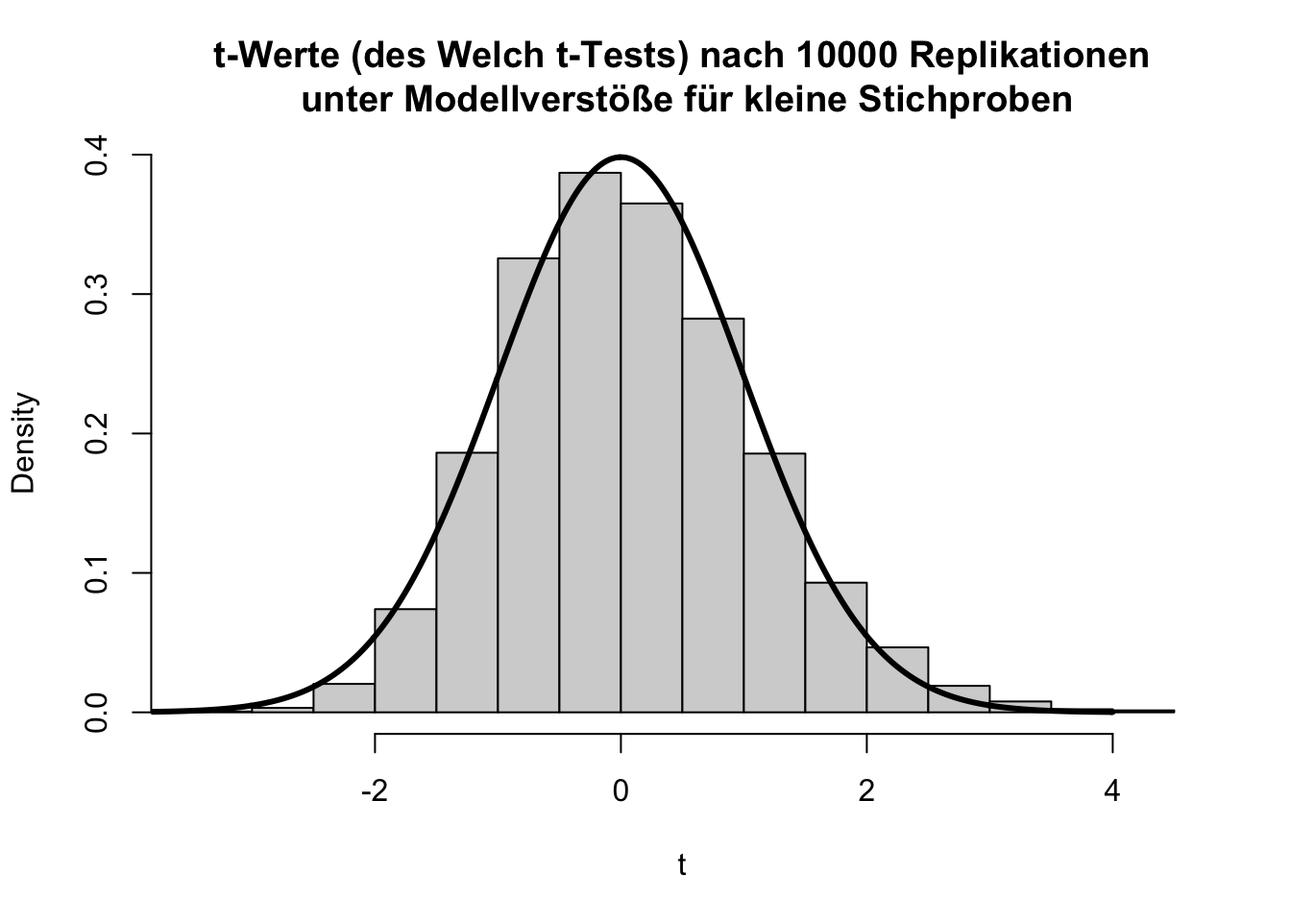
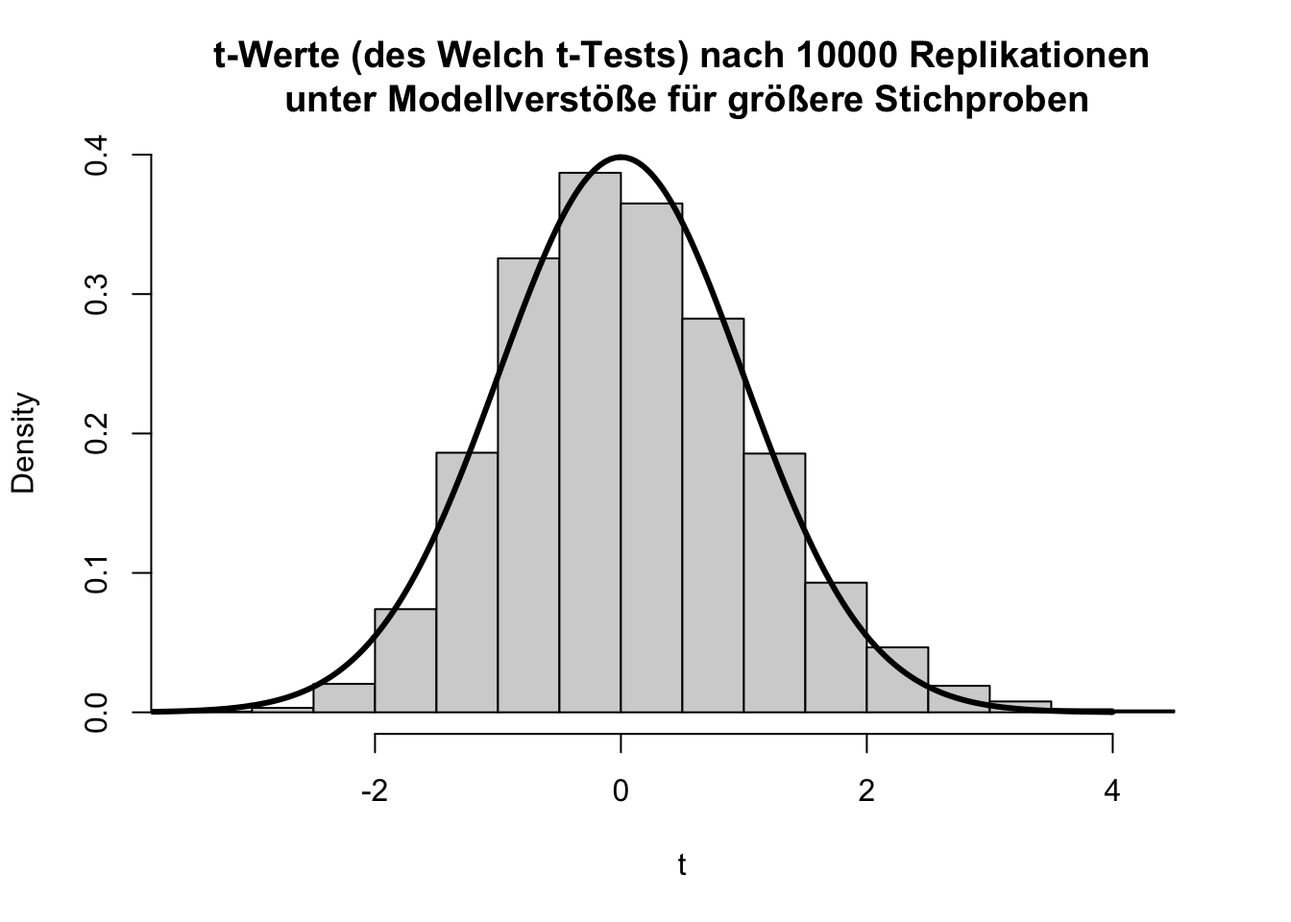
Minor fixed in Sitzung0 of MSc1.

Changed region(s): [[0.2188, 0.0938, 0.8438, 0.125]]

diff --git a/content/post/2020-10-06-einleitung-und-wiederholung.html b/content/post/2020-10-06-einleitung-und-wiederholung.html
@@ -34,7 +34,7 @@ projects: []
 <pre class="r"><code>load(&quot;C:/Users/Musterfrau/Desktop/Schulleistungen.rda&quot;)</code></pre>
 <p>Nun sollte in <code>R</code>-Studio oben rechts in dem Fenster unter der Rubrik “Data” unser Datensatz mit dem Namen “<em>Schulleistungen</em>” erscheinen.</p>
 <p>Bei Dateipfaden ist darauf zu achten, dass bei Linux <svg style="height:0.8em;top:.04em;position:relative;" viewBox="0 0 448 512"><path d="M220.8 123.3c1 .5 1.8 1.7 3 1.7 1.1 0 2.8-.4 2.9-1.5.2-1.4-1.9-2.3-3.2-2.9-1.7-.7-3.9-1-5.5-.1-.4.2-.8.7-.6 1.1.3 1.3 2.3 1.1 3.4 1.7zm-21.9 1.7c1.2 0 2-1.2 3-1.7 1.1-.6 3.1-.4 3.5-1.6.2-.4-.2-.9-.6-1.1-1.6-.9-3.8-.6-5.5.1-1.3.6-3.4 1.5-3.2 2.9.1 1 1.8 1.5 2.8 1.4zM420 403.8c-3.6-4-5.3-11.6-7.2-19.7-1.8-8.1-3.9-16.8-10.5-22.4-1.3-1.1-2.6-2.1-4-2.9-1.3-.8-2.7-1.5-4.1-2 9.2-27.3 5.6-54.5-3.7-79.1-11.4-30.1-31.3-56.4-46.5-74.4-17.1-21.5-33.7-41.9-33.4-72C311.1 85.4 315.7.1 234.8 0 132.4-.2 158 103.4 156.9 135.2c-1.7 23.4-6.4 41.8-22.5 64.7-18.9 22.5-45.5 58.8-58.1 96.7-6 17.9-8.8 36.1-6.2 53.3-6.5 5.8-11.4 14.7-16.6 20.2-4.2 4.3-10.3 5.9-17 8.3s-14 6-18.5 14.5c-2.1 3.9-2.8 8.1-2.8 12.4 0 3.9.6 7.9 1.2 11.8 1.2 8.1 2.5 15.7.8 20.8-5.2 14.4-5.9 24.4-2.2 31.7 3.8 7.3 11.4 10.5 20.1 12.3 17.3 3.6 40.8 2.7 59.3 12.5 19.8 10.4 39.9 14.1 55.9 10.4 11.6-2.6 21.1-9.6 25.9-20.2 12.5-.1 26.3-5.4 48.3-6.6 14.9-1.2 33.6 5.3 55.1 4.1.6 2.3 1.4 4.6 2.5 6.7v.1c8.3 16.7 23.8 24.3 40.3 23 16.6-1.3 34.1-11 48.3-27.9 13.6-16.4 36-23.2 50.9-32.2 7.4-4.5 13.4-10.1 13.9-18.3.4-8.2-4.4-17.3-15.5-29.7zM223.7 87.3c9.8-22.2 34.2-21.8 44-.4 6.5 14.2 3.6 30.9-4.3 40.4-1.6-.8-5.9-2.6-12.6-4.9 1.1-1.2 3.1-2.7 3.9-4.6 4.8-11.8-.2-27-9.1-27.3-7.3-.5-13.9 10.8-11.8 23-4.1-2-9.4-3.5-13-4.4-1-6.9-.3-14.6 2.9-21.8zM183 75.8c10.1 0 20.8 14.2 19.1 33.5-3.5 1-7.1 2.5-10.2 4.6 1.2-8.9-3.3-20.1-9.6-19.6-8.4.7-9.8 21.2-1.8 28.1 1 .8 1.9-.2-5.9 5.5-15.6-14.6-10.5-52.1 8.4-52.1zm-13.6 60.7c6.2-4.6 13.6-10 14.1-10.5 4.7-4.4 13.5-14.2 27.9-14.2 7.1 0 15.6 2.3 25.9 8.9 6.3 4.1 11.3 4.4 22.6 9.3 8.4 3.5 13.7 9.7 10.5 18.2-2.6 7.1-11 14.4-22.7 18.1-11.1 3.6-19.8 16-38.2 14.9-3.9-.2-7-1-9.6-2.1-8-3.5-12.2-10.4-20-15-8.6-4.8-13.2-10.4-14.7-15.3-1.4-4.9 0-9 4.2-12.3zm3.3 334c-2.7 35.1-43.9 34.4-75.3 18-29.9-15.8-68.6-6.5-76.5-21.9-2.4-4.7-2.4-12.7 2.6-26.4v-.2c2.4-7.6.6-16-.6-23.9-1.2-7.8-1.8-15 .9-20 3.5-6.7 8.5-9.1 14.8-11.3 10.3-3.7 11.8-3.4 19.6-9.9 5.5-5.7 9.5-12.9 14.3-18 5.1-5.5 10-8.1 17.7-6.9 8.1 1.2 15.1 6.8 21.9 16l19.6 35.6c9.5 19.9 43.1 48.4 41 68.9zm-1.4-25.9c-4.1-6.6-9.6-13.6-14.4-19.6 7.1 0 14.2-2.2 16.7-8.9 2.3-6.2 0-14.9-7.4-24.9-13.5-18.2-38.3-32.5-38.3-32.5-13.5-8.4-21.1-18.7-24.6-29.9s-3-23.3-.3-35.2c5.2-22.9 18.6-45.2 27.2-59.2 2.3-1.7.8 3.2-8.7 20.8-8.5 16.1-24.4 53.3-2.6 82.4.6-20.7 5.5-41.8 13.8-61.5 12-27.4 37.3-74.9 39.3-112.7 1.1.8 4.6 3.2 6.2 4.1 4.6 2.7 8.1 6.7 12.6 10.3 12.4 10 28.5 9.2 42.4 1.2 6.2-3.5 11.2-7.5 15.9-9 9.9-3.1 17.8-8.6 22.3-15 7.7 30.4 25.7 74.3 37.2 95.7 6.1 11.4 18.3 35.5 23.6 64.6 3.3-.1 7 .4 10.9 1.4 13.8-35.7-11.7-74.2-23.3-84.9-4.7-4.6-4.9-6.6-2.6-6.5 12.6 11.2 29.2 33.7 35.2 59 2.8 11.6 3.3 23.7.4 35.7 16.4 6.8 35.9 17.9 30.7 34.8-2.2-.1-3.2 0-4.2 0 3.2-10.1-3.9-17.6-22.8-26.1-19.6-8.6-36-8.6-38.3 12.5-12.1 4.2-18.3 14.7-21.4 27.3-2.8 11.2-3.6 24.7-4.4 39.9-.5 7.7-3.6 18-6.8 29-32.1 22.9-76.7 32.9-114.3 7.2zm257.4-11.5c-.9 16.8-41.2 19.9-63.2 46.5-13.2 15.7-29.4 24.4-43.6 25.5s-26.5-4.8-33.7-19.3c-4.7-11.1-2.4-23.1 1.1-36.3 3.7-14.2 9.2-28.8 9.9-40.6.8-15.2 1.7-28.5 4.2-38.7 2.6-10.3 6.6-17.2 13.7-21.1.3-.2.7-.3 1-.5.8 13.2 7.3 26.6 18.8 29.5 12.6 3.3 30.7-7.5 38.4-16.3 9-.3 15.7-.9 22.6 5.1 9.9 8.5 7.1 30.3 17.1 41.6 10.6 11.6 14 19.5 13.7 24.6zM173.3 148.7c2 1.9 4.7 4.5 8 7.1 6.6 5.2 15.8 10.6 27.3 10.6 11.6 0 22.5-5.9 31.8-10.8 4.9-2.6 10.9-7 14.8-10.4s5.9-6.3 3.1-6.6-2.6 2.6-6 5.1c-4.4 3.2-9.7 7.4-13.9 9.8-7.4 4.2-19.5 10.2-29.9 10.2s-18.7-4.8-24.9-9.7c-3.1-2.5-5.7-5-7.7-6.9-1.5-1.4-1.9-4.6-4.3-4.9-1.4-.1-1.8 3.7 1.7 6.5z"/></svg> oder Mac OS Rechnern <svg style="height:0.8em;top:.04em;position:relative;" viewBox="0 0 384 512"><path d="M318.7 268.7c-.2-36.7 16.4-64.4 50-84.8-18.8-26.9-47.2-41.7-84.7-44.6-35.5-2.8-74.3 20.7-88.5 20.7-15 0-49.4-19.7-76.4-19.7C63.3 141.2 4 184.8 4 273.5q0 39.3 14.4 81.2c12.8 36.7 59 126.7 107.2 125.2 25.2-.6 43-17.9 75.8-17.9 31.8 0 48.3 17.9 76.4 17.9 48.6-.7 90.4-82.5 102.6-119.3-65.2-30.7-61.7-90-61.7-91.9zm-56.6-164.2c27.3-32.4 24.8-61.9 24-72.5-24.1 1.4-52 16.4-67.9 34.9-17.5 19.8-27.8 44.3-25.6 71.9 26.1 2 49.9-11.4 69.5-34.3z"/></svg> immer Front-Slashes (“/”) zum Anzeigen von Hierarchien zwischen Ordnern verwendet werden, während auf Windows Rechnern <svg style="height:0.8em;top:.04em;position:relative;" viewBox="0 0 448 512"><path d="M0 93.7l183.6-25.3v177.4H0V93.7zm0 324.6l183.6 25.3V268.4H0v149.9zm203.8 28L448 480V268.4H203.8v177.9zm0-380.6v180.1H448V32L203.8 65.7z"/></svg> im System aber bei Dateipfaden mit Back-Slashes gearbeitet wird (“\”). <code>R</code> nutzt auf Windows Rechnern <svg style="height:0.8em;top:.04em;position:relative;" viewBox="0 0 448 512"><path d="M0 93.7l183.6-25.3v177.4H0V93.7zm0 324.6l183.6 25.3V268.4H0v149.9zm203.8 28L448 480V268.4H203.8v177.9zm0-380.6v180.1H448V32L203.8 65.7z"/></svg> ebenfalls Front-Slashes (“/”). Das bedeutet, dass, wenn wir auf Windows Rechnern <svg style="height:0.8em;top:.04em;position:relative;" viewBox="0 0 448 512"><path d="M0 93.7l183.6-25.3v177.4H0V93.7zm0 324.6l183.6 25.3V268.4H0v149.9zm203.8 28L448 480V268.4H203.8v177.9zm0-380.6v180.1H448V32L203.8 65.7z"/></svg> den Dateipfad aus dem Explorer kopieren, wir die Slashes “umdrehen” müssen.</p>
-<p>Genauso sind Sie in der Lage den Datensatz direkt aus dem Internet zu laden. Hierzu brauchen Sie nur die URL und müssen <code>R</code> sagen, dass es sich bei dieser um eine URL handelt, indem Sie die Funktion <code>url</code> auf den Link anwenden. Der funktioniernde Befehl sieht so aus (wobei die URL in Anführungszeichen geschrieben werden muss):</p>
+<p>Genauso sind Sie in der Lage, den Datensatz direkt aus dem Internet zu laden. Hierzu brauchen Sie nur die URL und müssen <code>R</code> sagen, dass es sich bei dieser um eine URL handelt, indem Sie die Funktion <code>url</code> auf den Link anwenden. Der funktioniernde Befehl sieht so aus (wobei die URL in Anführungszeichen geschrieben werden muss):</p>
 <pre class="r"><code>load(url(&quot;https://pandar.netlify.app/post/Schulleistungen.rda&quot;))</code></pre>
 </div>
 <div id="ein-überblick-über-die-daten" class="section level3">
@@ -68,7 +68,7 @@ str(Schulleistungen)</code></pre>
 ##  $ IQ     : num  81.8 106.8 99.1 111.9 116.1 ...
 ##  $ reading: num  450 545 331 532 604 ...
 ##  $ math   : num  452 590 509 560 659 ...</code></pre>
-<p>Wir entnehmen dem Output, dass die Variablen im Datensatz <code>female</code>, <code>IQ</code>, <code>reading</code> und <code>math</code> heißen, dass es insgesamt <span class="math inline">\(n = 100\)</span> Schulkinder zu 4 Merkmalen befragt/untersucht wurden und dass alle diese Variablen “<em>numerisch</em>”, also als Zahlen, vorliegen. Eine einzelne Variable eines Datensatzes (vom Typ <code>data.frame</code>) können wir ansprechen, indem wir hinter den Datensatz <code>$</code> schreiben und anschließend den Variablennamen. Zugriff auf den <code>IQ</code> der Kinder erhalten wir mit:</p>
+<p>Wir entnehmen dem Output, dass die Variablen im Datensatz <code>female</code>, <code>IQ</code>, <code>reading</code> und <code>math</code> heißen, dass insgesamt <span class="math inline">\(n = 100\)</span> Schulkinder zu 4 Merkmalen befragt/untersucht wurden und dass alle diese Variablen “<em>numerisch</em>”, also als Zahlen, vorliegen. Eine einzelne Variable eines Datensatzes (vom Typ <code>data.frame</code>) können wir ansprechen, indem wir hinter den Datensatz <code>$</code> schreiben und anschließend den Variablennamen. Zugriff auf den <code>IQ</code> der Kinder erhalten wir mit:</p>
 <pre class="r"><code>Schulleistungen$IQ</code></pre>
 <pre><code>##   [1]  81.77950 106.75898  99.14033 111.91499 116.12682 106.14127  85.44854
 ##   [8]  93.24323 135.19738  89.90152  92.72073 115.90123 114.54088  83.28294
@@ -85,7 +85,7 @@ str(Schulleistungen)</code></pre>
 ##  [85]  76.56824  97.56684 104.28662 106.08550 120.97759  82.65717 108.41181
 ##  [92] 103.38963 100.59534 122.79791  97.91853  92.96729  77.51862 105.01989
 ##  [99]  54.05485 106.12641</code></pre>
-<p><em><strong>Tipp:</strong> In <code>R</code>-Studio können Sie sich Ihren Umgang mit der Software in vielen Dingen vereinfachen, indem Sie die automatische Vervollständigung der Software nutzen. Dies tun Sie, indem Sie bspw. <code>Schulleistungen$</code> tippen und dann den Tabulator [oder “Strg” + “Leertaste” auf Windows <svg style="height:0.8em;top:.04em;position:relative;" viewBox="0 0 448 512"><path d="M0 93.7l183.6-25.3v177.4H0V93.7zm0 324.6l183.6 25.3V268.4H0v149.9zm203.8 28L448 480V268.4H203.8v177.9zm0-380.6v180.1H448V32L203.8 65.7z"/></svg> oder Linux Rechner <svg style="height:0.8em;top:.04em;position:relative;" viewBox="0 0 448 512"><path d="M220.8 123.3c1 .5 1.8 1.7 3 1.7 1.1 0 2.8-.4 2.9-1.5.2-1.4-1.9-2.3-3.2-2.9-1.7-.7-3.9-1-5.5-.1-.4.2-.8.7-.6 1.1.3 1.3 2.3 1.1 3.4 1.7zm-21.9 1.7c1.2 0 2-1.2 3-1.7 1.1-.6 3.1-.4 3.5-1.6.2-.4-.2-.9-.6-1.1-1.6-.9-3.8-.6-5.5.1-1.3.6-3.4 1.5-3.2 2.9.1 1 1.8 1.5 2.8 1.4zM420 403.8c-3.6-4-5.3-11.6-7.2-19.7-1.8-8.1-3.9-16.8-10.5-22.4-1.3-1.1-2.6-2.1-4-2.9-1.3-.8-2.7-1.5-4.1-2 9.2-27.3 5.6-54.5-3.7-79.1-11.4-30.1-31.3-56.4-46.5-74.4-17.1-21.5-33.7-41.9-33.4-72C311.1 85.4 315.7.1 234.8 0 132.4-.2 158 103.4 156.9 135.2c-1.7 23.4-6.4 41.8-22.5 64.7-18.9 22.5-45.5 58.8-58.1 96.7-6 17.9-8.8 36.1-6.2 53.3-6.5 5.8-11.4 14.7-16.6 20.2-4.2 4.3-10.3 5.9-17 8.3s-14 6-18.5 14.5c-2.1 3.9-2.8 8.1-2.8 12.4 0 3.9.6 7.9 1.2 11.8 1.2 8.1 2.5 15.7.8 20.8-5.2 14.4-5.9 24.4-2.2 31.7 3.8 7.3 11.4 10.5 20.1 12.3 17.3 3.6 40.8 2.7 59.3 12.5 19.8 10.4 39.9 14.1 55.9 10.4 11.6-2.6 21.1-9.6 25.9-20.2 12.5-.1 26.3-5.4 48.3-6.6 14.9-1.2 33.6 5.3 55.1 4.1.6 2.3 1.4 4.6 2.5 6.7v.1c8.3 16.7 23.8 24.3 40.3 23 16.6-1.3 34.1-11 48.3-27.9 13.6-16.4 36-23.2 50.9-32.2 7.4-4.5 13.4-10.1 13.9-18.3.4-8.2-4.4-17.3-15.5-29.7zM223.7 87.3c9.8-22.2 34.2-21.8 44-.4 6.5 14.2 3.6 30.9-4.3 40.4-1.6-.8-5.9-2.6-12.6-4.9 1.1-1.2 3.1-2.7 3.9-4.6 4.8-11.8-.2-27-9.1-27.3-7.3-.5-13.9 10.8-11.8 23-4.1-2-9.4-3.5-13-4.4-1-6.9-.3-14.6 2.9-21.8zM183 75.8c10.1 0 20.8 14.2 19.1 33.5-3.5 1-7.1 2.5-10.2 4.6 1.2-8.9-3.3-20.1-9.6-19.6-8.4.7-9.8 21.2-1.8 28.1 1 .8 1.9-.2-5.9 5.5-15.6-14.6-10.5-52.1 8.4-52.1zm-13.6 60.7c6.2-4.6 13.6-10 14.1-10.5 4.7-4.4 13.5-14.2 27.9-14.2 7.1 0 15.6 2.3 25.9 8.9 6.3 4.1 11.3 4.4 22.6 9.3 8.4 3.5 13.7 9.7 10.5 18.2-2.6 7.1-11 14.4-22.7 18.1-11.1 3.6-19.8 16-38.2 14.9-3.9-.2-7-1-9.6-2.1-8-3.5-12.2-10.4-20-15-8.6-4.8-13.2-10.4-14.7-15.3-1.4-4.9 0-9 4.2-12.3zm3.3 334c-2.7 35.1-43.9 34.4-75.3 18-29.9-15.8-68.6-6.5-76.5-21.9-2.4-4.7-2.4-12.7 2.6-26.4v-.2c2.4-7.6.6-16-.6-23.9-1.2-7.8-1.8-15 .9-20 3.5-6.7 8.5-9.1 14.8-11.3 10.3-3.7 11.8-3.4 19.6-9.9 5.5-5.7 9.5-12.9 14.3-18 5.1-5.5 10-8.1 17.7-6.9 8.1 1.2 15.1 6.8 21.9 16l19.6 35.6c9.5 19.9 43.1 48.4 41 68.9zm-1.4-25.9c-4.1-6.6-9.6-13.6-14.4-19.6 7.1 0 14.2-2.2 16.7-8.9 2.3-6.2 0-14.9-7.4-24.9-13.5-18.2-38.3-32.5-38.3-32.5-13.5-8.4-21.1-18.7-24.6-29.9s-3-23.3-.3-35.2c5.2-22.9 18.6-45.2 27.2-59.2 2.3-1.7.8 3.2-8.7 20.8-8.5 16.1-24.4 53.3-2.6 82.4.6-20.7 5.5-41.8 13.8-61.5 12-27.4 37.3-74.9 39.3-112.7 1.1.8 4.6 3.2 6.2 4.1 4.6 2.7 8.1 6.7 12.6 10.3 12.4 10 28.5 9.2 42.4 1.2 6.2-3.5 11.2-7.5 15.9-9 9.9-3.1 17.8-8.6 22.3-15 7.7 30.4 25.7 74.3 37.2 95.7 6.1 11.4 18.3 35.5 23.6 64.6 3.3-.1 7 .4 10.9 1.4 13.8-35.7-11.7-74.2-23.3-84.9-4.7-4.6-4.9-6.6-2.6-6.5 12.6 11.2 29.2 33.7 35.2 59 2.8 11.6 3.3 23.7.4 35.7 16.4 6.8 35.9 17.9 30.7 34.8-2.2-.1-3.2 0-4.2 0 3.2-10.1-3.9-17.6-22.8-26.1-19.6-8.6-36-8.6-38.3 12.5-12.1 4.2-18.3 14.7-21.4 27.3-2.8 11.2-3.6 24.7-4.4 39.9-.5 7.7-3.6 18-6.8 29-32.1 22.9-76.7 32.9-114.3 7.2zm257.4-11.5c-.9 16.8-41.2 19.9-63.2 46.5-13.2 15.7-29.4 24.4-43.6 25.5s-26.5-4.8-33.7-19.3c-4.7-11.1-2.4-23.1 1.1-36.3 3.7-14.2 9.2-28.8 9.9-40.6.8-15.2 1.7-28.5 4.2-38.7 2.6-10.3 6.6-17.2 13.7-21.1.3-.2.7-.3 1-.5.8 13.2 7.3 26.6 18.8 29.5 12.6 3.3 30.7-7.5 38.4-16.3 9-.3 15.7-.9 22.6 5.1 9.9 8.5 7.1 30.3 17.1 41.6 10.6 11.6 14 19.5 13.7 24.6zM173.3 148.7c2 1.9 4.7 4.5 8 7.1 6.6 5.2 15.8 10.6 27.3 10.6 11.6 0 22.5-5.9 31.8-10.8 4.9-2.6 10.9-7 14.8-10.4s5.9-6.3 3.1-6.6-2.6 2.6-6 5.1c-4.4 3.2-9.7 7.4-13.9 9.8-7.4 4.2-19.5 10.2-29.9 10.2s-18.7-4.8-24.9-9.7c-3.1-2.5-5.7-5-7.7-6.9-1.5-1.4-1.9-4.6-4.3-4.9-1.4-.1-1.8 3.7 1.7 6.5z"/></svg> oder “Control” + “Leertaste” auf Mac OS Rechnern <svg style="height:0.8em;top:.04em;position:relative;" viewBox="0 0 384 512"><path d="M318.7 268.7c-.2-36.7 16.4-64.4 50-84.8-18.8-26.9-47.2-41.7-84.7-44.6-35.5-2.8-74.3 20.7-88.5 20.7-15 0-49.4-19.7-76.4-19.7C63.3 141.2 4 184.8 4 273.5q0 39.3 14.4 81.2c12.8 36.7 59 126.7 107.2 125.2 25.2-.6 43-17.9 75.8-17.9 31.8 0 48.3 17.9 76.4 17.9 48.6-.7 90.4-82.5 102.6-119.3-65.2-30.7-61.7-90-61.7-91.9zm-56.6-164.2c27.3-32.4 24.8-61.9 24-72.5-24.1 1.4-52 16.4-67.9 34.9-17.5 19.8-27.8 44.3-25.6 71.9 26.1 2 49.9-11.4 69.5-34.3z"/></svg>] auf Ihrer Tastatur drücken. Ihnen werden dann Vorschläge für mögliche Argumente aufgezeigt. Das gleiche funktioniert auch in Funktionen. Hier müssen Sie zunächst den Funktionnamen schreiben und die Klammern öffnen. Mit dem Tabulator erhalten Sie anschließend Vorschläge für mögliche Argumente, die Sie der Funktion übergeben können. Schauen Sie sich dies doch einmal an! Dies funktioniert übrigens auch für das Vervollständigen von Dateipfaden. Hierbei muss allerdings darauf geachtet werden, dass diese in Anführungsstrichen geschrieben werden und Sie müssen beachten, wo ihr aktuelles Working-Directory liegt. Sie können allerdings auch den vollständigen Pfad eingeben, indem Sie auf Windows PCs <svg style="height:0.8em;top:.04em;position:relative;" viewBox="0 0 448 512"><path d="M0 93.7l183.6-25.3v177.4H0V93.7zm0 324.6l183.6 25.3V268.4H0v149.9zm203.8 28L448 480V268.4H203.8v177.9zm0-380.6v180.1H448V32L203.8 65.7z"/></svg> mit “C:/Users/” und auf Mac OS Rechnern <svg style="height:0.8em;top:.04em;position:relative;" viewBox="0 0 384 512"><path d="M318.7 268.7c-.2-36.7 16.4-64.4 50-84.8-18.8-26.9-47.2-41.7-84.7-44.6-35.5-2.8-74.3 20.7-88.5 20.7-15 0-49.4-19.7-76.4-19.7C63.3 141.2 4 184.8 4 273.5q0 39.3 14.4 81.2c12.8 36.7 59 126.7 107.2 125.2 25.2-.6 43-17.9 75.8-17.9 31.8 0 48.3 17.9 76.4 17.9 48.6-.7 90.4-82.5 102.6-119.3-65.2-30.7-61.7-90-61.7-91.9zm-56.6-164.2c27.3-32.4 24.8-61.9 24-72.5-24.1 1.4-52 16.4-67.9 34.9-17.5 19.8-27.8 44.3-25.6 71.9 26.1 2 49.9-11.4 69.5-34.3z"/></svg> mit “/Users/” beginnen und dann den Tabulator drücken und den jeweilig richtigen Ordner auswählen, bis Sie an Ihrer Zieldatei angekommen sind!</em></p>
+<p><em><strong>Tipp:</strong> In <code>R</code>-Studio können Sie sich Ihren Umgang mit der Software in vielen Dingen vereinfachen, indem Sie die automatische Vervollständigung der Software nutzen. Dies tun Sie, indem Sie bspw. <code>Schulleistungen$</code> tippen und dann den Tabulator [oder “Strg” + “Leertaste” auf Windows <svg style="height:0.8em;top:.04em;position:relative;" viewBox="0 0 448 512"><path d="M0 93.7l183.6-25.3v177.4H0V93.7zm0 324.6l183.6 25.3V268.4H0v149.9zm203.8 28L448 480V268.4H203.8v177.9zm0-380.6v180.1H448V32L203.8 65.7z"/></svg> oder Linux Rechner <svg style="height:0.8em;top:.04em;position:relative;" viewBox="0 0 448 512"><path d="M220.8 123.3c1 .5 1.8 1.7 3 1.7 1.1 0 2.8-.4 2.9-1.5.2-1.4-1.9-2.3-3.2-2.9-1.7-.7-3.9-1-5.5-.1-.4.2-.8.7-.6 1.1.3 1.3 2.3 1.1 3.4 1.7zm-21.9 1.7c1.2 0 2-1.2 3-1.7 1.1-.6 3.1-.4 3.5-1.6.2-.4-.2-.9-.6-1.1-1.6-.9-3.8-.6-5.5.1-1.3.6-3.4 1.5-3.2 2.9.1 1 1.8 1.5 2.8 1.4zM420 403.8c-3.6-4-5.3-11.6-7.2-19.7-1.8-8.1-3.9-16.8-10.5-22.4-1.3-1.1-2.6-2.1-4-2.9-1.3-.8-2.7-1.5-4.1-2 9.2-27.3 5.6-54.5-3.7-79.1-11.4-30.1-31.3-56.4-46.5-74.4-17.1-21.5-33.7-41.9-33.4-72C311.1 85.4 315.7.1 234.8 0 132.4-.2 158 103.4 156.9 135.2c-1.7 23.4-6.4 41.8-22.5 64.7-18.9 22.5-45.5 58.8-58.1 96.7-6 17.9-8.8 36.1-6.2 53.3-6.5 5.8-11.4 14.7-16.6 20.2-4.2 4.3-10.3 5.9-17 8.3s-14 6-18.5 14.5c-2.1 3.9-2.8 8.1-2.8 12.4 0 3.9.6 7.9 1.2 11.8 1.2 8.1 2.5 15.7.8 20.8-5.2 14.4-5.9 24.4-2.2 31.7 3.8 7.3 11.4 10.5 20.1 12.3 17.3 3.6 40.8 2.7 59.3 12.5 19.8 10.4 39.9 14.1 55.9 10.4 11.6-2.6 21.1-9.6 25.9-20.2 12.5-.1 26.3-5.4 48.3-6.6 14.9-1.2 33.6 5.3 55.1 4.1.6 2.3 1.4 4.6 2.5 6.7v.1c8.3 16.7 23.8 24.3 40.3 23 16.6-1.3 34.1-11 48.3-27.9 13.6-16.4 36-23.2 50.9-32.2 7.4-4.5 13.4-10.1 13.9-18.3.4-8.2-4.4-17.3-15.5-29.7zM223.7 87.3c9.8-22.2 34.2-21.8 44-.4 6.5 14.2 3.6 30.9-4.3 40.4-1.6-.8-5.9-2.6-12.6-4.9 1.1-1.2 3.1-2.7 3.9-4.6 4.8-11.8-.2-27-9.1-27.3-7.3-.5-13.9 10.8-11.8 23-4.1-2-9.4-3.5-13-4.4-1-6.9-.3-14.6 2.9-21.8zM183 75.8c10.1 0 20.8 14.2 19.1 33.5-3.5 1-7.1 2.5-10.2 4.6 1.2-8.9-3.3-20.1-9.6-19.6-8.4.7-9.8 21.2-1.8 28.1 1 .8 1.9-.2-5.9 5.5-15.6-14.6-10.5-52.1 8.4-52.1zm-13.6 60.7c6.2-4.6 13.6-10 14.1-10.5 4.7-4.4 13.5-14.2 27.9-14.2 7.1 0 15.6 2.3 25.9 8.9 6.3 4.1 11.3 4.4 22.6 9.3 8.4 3.5 13.7 9.7 10.5 18.2-2.6 7.1-11 14.4-22.7 18.1-11.1 3.6-19.8 16-38.2 14.9-3.9-.2-7-1-9.6-2.1-8-3.5-12.2-10.4-20-15-8.6-4.8-13.2-10.4-14.7-15.3-1.4-4.9 0-9 4.2-12.3zm3.3 334c-2.7 35.1-43.9 34.4-75.3 18-29.9-15.8-68.6-6.5-76.5-21.9-2.4-4.7-2.4-12.7 2.6-26.4v-.2c2.4-7.6.6-16-.6-23.9-1.2-7.8-1.8-15 .9-20 3.5-6.7 8.5-9.1 14.8-11.3 10.3-3.7 11.8-3.4 19.6-9.9 5.5-5.7 9.5-12.9 14.3-18 5.1-5.5 10-8.1 17.7-6.9 8.1 1.2 15.1 6.8 21.9 16l19.6 35.6c9.5 19.9 43.1 48.4 41 68.9zm-1.4-25.9c-4.1-6.6-9.6-13.6-14.4-19.6 7.1 0 14.2-2.2 16.7-8.9 2.3-6.2 0-14.9-7.4-24.9-13.5-18.2-38.3-32.5-38.3-32.5-13.5-8.4-21.1-18.7-24.6-29.9s-3-23.3-.3-35.2c5.2-22.9 18.6-45.2 27.2-59.2 2.3-1.7.8 3.2-8.7 20.8-8.5 16.1-24.4 53.3-2.6 82.4.6-20.7 5.5-41.8 13.8-61.5 12-27.4 37.3-74.9 39.3-112.7 1.1.8 4.6 3.2 6.2 4.1 4.6 2.7 8.1 6.7 12.6 10.3 12.4 10 28.5 9.2 42.4 1.2 6.2-3.5 11.2-7.5 15.9-9 9.9-3.1 17.8-8.6 22.3-15 7.7 30.4 25.7 74.3 37.2 95.7 6.1 11.4 18.3 35.5 23.6 64.6 3.3-.1 7 .4 10.9 1.4 13.8-35.7-11.7-74.2-23.3-84.9-4.7-4.6-4.9-6.6-2.6-6.5 12.6 11.2 29.2 33.7 35.2 59 2.8 11.6 3.3 23.7.4 35.7 16.4 6.8 35.9 17.9 30.7 34.8-2.2-.1-3.2 0-4.2 0 3.2-10.1-3.9-17.6-22.8-26.1-19.6-8.6-36-8.6-38.3 12.5-12.1 4.2-18.3 14.7-21.4 27.3-2.8 11.2-3.6 24.7-4.4 39.9-.5 7.7-3.6 18-6.8 29-32.1 22.9-76.7 32.9-114.3 7.2zm257.4-11.5c-.9 16.8-41.2 19.9-63.2 46.5-13.2 15.7-29.4 24.4-43.6 25.5s-26.5-4.8-33.7-19.3c-4.7-11.1-2.4-23.1 1.1-36.3 3.7-14.2 9.2-28.8 9.9-40.6.8-15.2 1.7-28.5 4.2-38.7 2.6-10.3 6.6-17.2 13.7-21.1.3-.2.7-.3 1-.5.8 13.2 7.3 26.6 18.8 29.5 12.6 3.3 30.7-7.5 38.4-16.3 9-.3 15.7-.9 22.6 5.1 9.9 8.5 7.1 30.3 17.1 41.6 10.6 11.6 14 19.5 13.7 24.6zM173.3 148.7c2 1.9 4.7 4.5 8 7.1 6.6 5.2 15.8 10.6 27.3 10.6 11.6 0 22.5-5.9 31.8-10.8 4.9-2.6 10.9-7 14.8-10.4s5.9-6.3 3.1-6.6-2.6 2.6-6 5.1c-4.4 3.2-9.7 7.4-13.9 9.8-7.4 4.2-19.5 10.2-29.9 10.2s-18.7-4.8-24.9-9.7c-3.1-2.5-5.7-5-7.7-6.9-1.5-1.4-1.9-4.6-4.3-4.9-1.4-.1-1.8 3.7 1.7 6.5z"/></svg> oder “Control” + “Leertaste” auf Mac OS Rechnern <svg style="height:0.8em;top:.04em;position:relative;" viewBox="0 0 384 512"><path d="M318.7 268.7c-.2-36.7 16.4-64.4 50-84.8-18.8-26.9-47.2-41.7-84.7-44.6-35.5-2.8-74.3 20.7-88.5 20.7-15 0-49.4-19.7-76.4-19.7C63.3 141.2 4 184.8 4 273.5q0 39.3 14.4 81.2c12.8 36.7 59 126.7 107.2 125.2 25.2-.6 43-17.9 75.8-17.9 31.8 0 48.3 17.9 76.4 17.9 48.6-.7 90.4-82.5 102.6-119.3-65.2-30.7-61.7-90-61.7-91.9zm-56.6-164.2c27.3-32.4 24.8-61.9 24-72.5-24.1 1.4-52 16.4-67.9 34.9-17.5 19.8-27.8 44.3-25.6 71.9 26.1 2 49.9-11.4 69.5-34.3z"/></svg>] auf Ihrer Tastatur drücken. Ihnen werden dann Vorschläge für mögliche Argumente aufgezeigt. Das gleiche funktioniert auch in Funktionen. Hier müssen Sie zunächst den Funktionsnamen schreiben und die Klammern öffnen. Mit dem Tabulator erhalten Sie anschließend Vorschläge für mögliche Argumente, die Sie der Funktion übergeben können. Schauen Sie sich dies doch einmal an! Dies funktioniert übrigens auch für das Vervollständigen von Dateipfaden. Hierbei muss allerdings darauf geachtet werden, dass diese in Anführungsstrichen geschrieben werden und Sie müssen beachten, wo ihr aktuelles Working-Directory liegt. Sie können allerdings auch den vollständigen Pfad eingeben, indem Sie auf Windows PCs <svg style="height:0.8em;top:.04em;position:relative;" viewBox="0 0 448 512"><path d="M0 93.7l183.6-25.3v177.4H0V93.7zm0 324.6l183.6 25.3V268.4H0v149.9zm203.8 28L448 480V268.4H203.8v177.9zm0-380.6v180.1H448V32L203.8 65.7z"/></svg> mit “C:/Users/” und auf Mac OS Rechnern <svg style="height:0.8em;top:.04em;position:relative;" viewBox="0 0 384 512"><path d="M318.7 268.7c-.2-36.7 16.4-64.4 50-84.8-18.8-26.9-47.2-41.7-84.7-44.6-35.5-2.8-74.3 20.7-88.5 20.7-15 0-49.4-19.7-76.4-19.7C63.3 141.2 4 184.8 4 273.5q0 39.3 14.4 81.2c12.8 36.7 59 126.7 107.2 125.2 25.2-.6 43-17.9 75.8-17.9 31.8 0 48.3 17.9 76.4 17.9 48.6-.7 90.4-82.5 102.6-119.3-65.2-30.7-61.7-90-61.7-91.9zm-56.6-164.2c27.3-32.4 24.8-61.9 24-72.5-24.1 1.4-52 16.4-67.9 34.9-17.5 19.8-27.8 44.3-25.6 71.9 26.1 2 49.9-11.4 69.5-34.3z"/></svg> mit “/Users/” beginnen und dann den Tabulator drücken und den jeweilig richtigen Ordner auswählen, bis Sie an Ihrer Zieldatei angekommen sind!</em></p>
 </div>
 <div id="einfache-deskriptivstatistiken" class="section level3">
 <h3>Einfache Deskriptivstatistiken</h3>
@@ -133,7 +133,7 @@ hist(X)</code></pre>
 <pre><code>## [1] -0.002997332</code></pre>
 <pre class="r"><code>sd(X)</code></pre>
 <pre><code>## [1] 0.9956916</code></pre>
-<p>Natürlich liegt der geschätzte Mittelwert und die Standardabweichung nicht genau auf den wahren Werten, was am Sampling-Error liegt. Gehen wir nun her und simulieren noch eine zweite Stichprobe standardnormalverteilter Zufallsvariablen, so können wir diese beiden Stichproben mit Hilfe des <span class="math inline">\(t\)</span>-Tests vergleichen. Die Funktion in <code>R</code> hierzu heißt <code>t.test</code> (wir müssen hier <code>var.equal = T</code> wählen, da sonst eine Näherung verwendet wird, die unterschiedliche Varianzen ausgleichen soll, nämlich Welch’s Two Sample <span class="math inline">\(t\)</span>-Test):</p>
+<p>Natürlich liegen der geschätzte Mittelwert und die Standardabweichung nicht genau auf den wahren Werten, was am Sampling-Error liegt. Gehen wir nun her und simulieren noch eine zweite Stichprobe standardnormalverteilter Zufallsvariablen, so können wir diese beiden Stichproben mit Hilfe des <span class="math inline">\(t\)</span>-Tests vergleichen. Die Funktion in <code>R</code> hierzu heißt <code>t.test</code> (wir müssen hier <code>var.equal = T</code> wählen, da sonst eine Näherung verwendet wird, die unterschiedliche Varianzen ausgleichen soll, nämlich Welch’s Two Sample <span class="math inline">\(t\)</span>-Test):</p>
 <pre class="r"><code>Y &lt;- rnorm(n = 1000, mean = 0, sd = 1)
 t.test(X, Y, var.equal = T)</code></pre>
 <pre><code>## 
@@ -153,7 +153,7 @@ t.test(X, Y, var.equal = T)</code></pre>
 <p>zeigt an, dass es sich um einen Zweistichproben <span class="math inline">\(t\)</span>-Test handelt.</p>
 <pre><code>##  data:  X and Y
 ##  t = -1.4456, df = 1998, p-value = 0.1484</code></pre>
-<p>zeigt uns die Datengrundlage (<code>X</code> und <code>Y</code>), den <span class="math inline">\(t\)</span>-Wert, die <span class="math inline">\(df\)</span> und den <span class="math inline">\(p\)</span>-Wert. Wir erkennen, dass die Mittelwertsdifferenz <span class="math inline">\(d\)</span>= -0.065 mit zugehörigen <span class="math inline">\(t\)</span>-Wert t(1998)=-1.4456 und <span class="math inline">\(p\)</span>-Wert p=0.1484, somit ist dieser Mittelwertsvergleich auf dem 5% Niveau nicht signifikant (<span class="math inline">\(p\)</span>&gt;.05).</p>
+<p>zeigt uns die Datengrundlage (<code>X</code> und <code>Y</code>), den <span class="math inline">\(t\)</span>-Wert, die <span class="math inline">\(df\)</span> und den <span class="math inline">\(p\)</span>-Wert. Wir erkennen, dass die Mittelwertsdifferenz bei <span class="math inline">\(d\)</span>= -0.065 liegt, mit zugehörigen <span class="math inline">\(t\)</span>-Wert t(1998)=-1.4456 und <span class="math inline">\(p\)</span>-Wert p=0.1484, somit ist dieser Mittelwertsvergleich auf dem 5% Niveau nicht signifikant (<span class="math inline">\(p\)</span>&gt;.05).</p>
 <pre><code>##  alternative hypothesis: true difference in means is not equal to 0
 ##  95 percent confidence interval:
 ##   -0.15317201  0.02317988
@@ -171,7 +171,7 @@ names(ttest)    # alle möglichen Argumente, die wir diesem Objekt entlocken kö
 ## -1.4456</code></pre>
 <pre class="r"><code>ttest$p.value   # zugehöriger p-Wert</code></pre>
 <pre><code>## [1] 0.1484462</code></pre>
-<p>Da die Null-Hypothese nicht verworfen wird, bedeutet dies, dass wir weiterhin annehmen, dass die Mittelwertsdifferenz in der Population tatsächlich 0 ist. Die in der Stichprobe ist offensichtlich nicht 0, aber sie liegt so nah an der 0, dass diese Abweichung wahrscheinlich durch Zufall passiert ist und sich nicht auf die Population verallgemeinern lässt (siehe als Wiederholung <a href="https://hds.hebis.de/ubffm/Record/HEB366849158">Eid, et al., 2017</a>, Kapitel 11.1 für den <span class="math inline">\(t\)</span>-Test und Kapitel 8 für Inferenzstatistikgrundlagen und Hypothesentests, bzw. <a href="https://hds.hebis.de/ubffm/Record/HEB369761391">Agresti, &amp; Finlay, 2013,</a>, Kapitel 6).</p>
+<p>Da die Null-Hypothese nicht verworfen wird, bedeutet dies, dass wir weiterhin annehmen, dass die Mittelwertsdifferenz in der Population tatsächlich 0 ist. Die in der Stichprobe ist offensichtlich nicht 0, aber sie liegt so nah an der 0, dass diese Abweichung wahrscheinlich durch Zufall passiert ist und sich nicht auf die Population verallgemeinern lässt (siehe als Wiederholung <a href="https://hds.hebis.de/ubffm/Record/HEB366849158">Eid, et al., 2017</a>, Kapitel 11.1 für den <span class="math inline">\(t\)</span>-Test und Kapitel 8 für Inferenzstatistikgrundlagen und Hypothesentests, bzw. <a href="https://hds.hebis.de/ubffm/Record/HEB369761391">Agresti, &amp; Finlay, 2013</a>, Kapitel 6).</p>
 </div>
 <div id="verteilung-unter-h_0" class="section level3">
 <h3>Verteilung unter <span class="math inline">\(H_0\)</span></h3>
@@ -185,7 +185,7 @@ names(ttest)    # alle möglichen Argumente, die wir diesem Objekt entlocken kö
 <p><img src="/post/2020-10-06-einleitung-und-wiederholung_files/figure-html/unnamed-chunk-18-1.png" width="672" style="display: block; margin: auto;" /><img src="/post/2020-10-06-einleitung-und-wiederholung_files/figure-html/unnamed-chunk-18-2.png" width="672" style="display: block; margin: auto;" /></p>
 <p>Wir sehen sehr deutlich, dass die Teststatstitk <span class="math inline">\(T\)</span> deutlich nach rechts verschoben ist und nicht mehr zur theoretischen Verteilung unter der <span class="math inline">\(H_0\)</span>-Hypothese passt. Auch die <span class="math inline">\(p\)</span>-Werte sind alles andere als gleichverteilt. Folglich sprechen extreme <span class="math inline">\(t\)</span>-Werte gegen die Null-Hypothese, weswegen wir diese verwerfen, wenn wir einen extremen Wert beobachten. Hier liegen 60.99% der <span class="math inline">\(p\)</span>-Werte unterhalb von <span class="math inline">\(0.05\)</span>. Dies wird auch als <strong>Power</strong> (siehe im Kapitel 8 in <a href="https://hds.hebis.de/ubffm/Record/HEB366849158">Eid, et al., 2017</a> Wiederholungen der Begriffe Power und <span class="math inline">\(\alpha\)</span>-Fehler) bezeichnet, somit hat der <span class="math inline">\(t\)</span>-Test für eine Mittelwertsdifferenz von <span class="math inline">\(d\)</span>=.1 und eine Stichprobengröße von insgesamt n = 2000 eine Power von 60.99%, was bedeutet, dass in diesem Fall die <span class="math inline">\(H_0\)</span> richtigerweise verworfen wird. Schauen wir uns die Power der <span class="math inline">\(t\)</span>-Tests einmal für verschiedene Stichprobengröße (<span class="math inline">\(n\)</span>) und Mittelwertsdifferenzen (<span class="math inline">\(d\)</span>) an:</p>
 <p><img src="/post/2020-10-06-einleitung-und-wiederholung_files/figure-html/unnamed-chunk-19-1.png" width="960" style="display: block; margin: auto;" /></p>
-<p>Die horizontal gepunktete Linie zeigt eine Power von 5% (also das vorgegebene <span class="math inline">\(\alpha\)</span>-Niveau) an und die horizontal gestrichelte Linie zeigt eine Power von 80% an. Wir sehen sehr deutlich, dass für alle Stichprobengröße (farblich kodiert) von <span class="math inline">\(n=2\)</span> bis <span class="math inline">\(n=1000\)</span> (pro Gruppe) die Power bei einer Mittelwertsdifferenz von 0 gerade bei ca. 5% liegt. Die Mittelwertsdifferenz von 0 beschreibt gerade die Null-Hypothese, dass es keine Mittelwertsunterschied gibt. In diesem Fall beobachten wir gerade den <span class="math inline">\(\alpha\)</span>-Fehler dieses Tests, nämlich die Wahrscheinlichkeit zufällig die Null-Hypothese zu verwerfen, obwohl diese gilt. Die Power von 5% war somit zu erwarten, da dies gerade das <span class="math inline">\(\alpha\)</span>-Niveau dieses Tests ist (welches wir uns auch vorher so vorgegeben haben). In der Regel wird <span class="math inline">\(\alpha = .05\)</span> gewählt.</p>
+<p>Die horizontal gepunktete Linie zeigt eine Power von 5% (also das vorgegebene <span class="math inline">\(\alpha\)</span>-Niveau) an und die horizontal gestrichelte Linie zeigt eine Power von 80% an. Wir sehen sehr deutlich, dass für alle Stichprobengrößen (farblich kodiert) von <span class="math inline">\(n=2\)</span> bis <span class="math inline">\(n=1000\)</span> (pro Gruppe) die Power bei einer Mittelwertsdifferenz von 0 gerade bei ca. 5% liegt. Die Mittelwertsdifferenz von 0 beschreibt gerade die Null-Hypothese, dass es keinen Mittelwertsunterschied gibt. In diesem Fall beobachten wir gerade den <span class="math inline">\(\alpha\)</span>-Fehler dieses Tests, nämlich die Wahrscheinlichkeit, zufällig die Null-Hypothese zu verwerfen, obwohl diese gilt. Die Power von 5% war somit zu erwarten, da dies gerade das <span class="math inline">\(\alpha\)</span>-Niveau dieses Tests ist (welches wir uns auch vorher so vorgegeben haben). In der Regel wird <span class="math inline">\(\alpha = .05\)</span> gewählt.</p>
 <p>Was wir auch erkennen ist, dass für sehr große Stichproben die Power dieses Tests schon für sehr kleine Mittelwertsdifferenzen groß ist (idealerweise sprechen Methodiker von einem Test mit hinreichender Power, wenn diese größer als 80% ist). Dieses Beispiel zeigt sehr schön auf, dass damit die Power (also die Wahrscheinlichkeit einen Effekt zu finden, wenn dieser da ist) hoch ist, es einen Effekt geben muss (was sehr trivial klingt und es eigentlich auch ist) und zudem die Stichprobengröße hinreichend groß sein muss. Mit hinreichend groß hält sich der/die Statistiker/in die Hintertür offen zu sagen, dass: a) im Falle eines kleinen Effekts die Stichprobengröße eben sehr groß sein muss, um diesen zu erkennen und b) bei Vorliegen eines sehr großen Effekts schon eine kleine Stichprobengröße ausreicht, um den Effekt mit hinreichender Wahrscheinlichkeit auch als solchen zu identifizieren. Das ist auch der Grund, warum es <em>Poweranalysen</em> gibt, mit welchen bestimmt werden kann, wie groß die Stichprobengröße sein muss, um bei einem vorgegebenem erwarteten Effekt hinreichende Power zu haben, diese auch zu entdecken.</p>
 </div>
 <div id="verstöße-gegen-die-modellannahmen" class="section level3">
@@ -194,7 +194,7 @@ names(ttest)    # alle möglichen Argumente, die wir diesem Objekt entlocken kö
 <p><img src="/post/2020-10-06-einleitung-und-wiederholung_files/figure-html/unnamed-chunk-20-1.png" width="672" style="display: block; margin: auto;" /></p>
 <p>Hier gilt zwar die Null-Hypothese, da beide Verteilungen einen theoretischen Mittelwert von 0 haben, aber die Varianzen unterscheiden sich (was im Histogramm durch die extremeren Werte entlang der x-Achse zu erkennen ist) und die Variablen sind offensichtlich nicht normalverteilt. Schauen wir uns nun die Power des <span class="math inline">\(t\)</span>-Tests für eine sehr kleine Stichprobe von 5 pro Gruppe an:</p>
 <p><img src="/post/2020-10-06-einleitung-und-wiederholung_files/figure-html/unnamed-chunk-21-1.png" width="672" style="display: block; margin: auto;" /><img src="/post/2020-10-06-einleitung-und-wiederholung_files/figure-html/unnamed-chunk-21-2.png" width="672" style="display: block; margin: auto;" /></p>
-<p>Insgesamt sieht die Verteilung der <span class="math inline">\(T\)</span>-Werte einigermaßen in Ordnung, auch wenn etwas schief, aus, doch bei den <span class="math inline">\(p\)</span>-Werten fällt auf, dass die Null-Hypothese zu häufig verworfen wird, nämlich insgesamt in 11.11% der Fälle (durch Zufall, da die Null-Hypothese eigentlich gilt!); also doppelt so häufig wie von uns vorgegeben! Glücklicherweise ist der <span class="math inline">\(t\)</span>-Test relativ robust, was daran zu erkennen ist, dass wenn die Stichprobengröße für dieses Beispiel bei 50 oder gar höher liegt (pro Gruppe), das <span class="math inline">\(\alpha\)</span>-Niveau schon wieder einigermaßen eingehalten wird. Außerdem gibt es geeignetere Tests zum Untersuchen von Mittelwertsunterschieden zweier Stichproben als den <span class="math inline">\(t\)</span>-Test - nämlich den Welch-Test. Dies ist eine Erweiterung des <span class="math inline">\(t\)</span>-Tests für ungleiche Varianzen. Dieser ist auch der Default in <code>R</code>. Wir rechnen ihn, indem wir nicht länger <code>var.equal = T</code> in <code>t.test</code> spezifizieren. Der Output ändert sich bis auf die Namensänderung kaum - die Freiheitsgrade des Tests werden korrigiert, um auf die ungleichen Varianzen zu reagieren (dies bedeutet, immer wenn die Freiheits gerade nicht einfach <span class="math inline">\(n-2\)</span> sind, dann wurde der Welch-Test gerechnet; insbesondere Kommazahlen als <span class="math inline">\(df\)</span> sind möglich). Jedoch bringt diese Erweiterung ebenfalls nur für größere Stichproben etwas. Die analoge Simulationsstudie können Sie <a href="#AppendixA">Appendix A</a> entnehmen.</p>
+<p>Insgesamt sieht die Verteilung der <span class="math inline">\(T\)</span>-Werte einigermaßen in Ordnung, wenn auch etwas schief, aus, doch bei den <span class="math inline">\(p\)</span>-Werten fällt auf, dass die Null-Hypothese zu häufig verworfen wird, nämlich insgesamt in 11.11% der Fälle (durch Zufall, da die Null-Hypothese eigentlich gilt!); also doppelt so häufig wie von uns vorgegeben! Glücklicherweise ist der <span class="math inline">\(t\)</span>-Test relativ robust, was daran zu erkennen ist, dass, wenn die Stichprobengröße für dieses Beispiel bei 50 oder gar höher liegt (pro Gruppe), das <span class="math inline">\(\alpha\)</span>-Niveau schon wieder einigermaßen eingehalten wird. Außerdem gibt es geeignetere Tests zum Untersuchen von Mittelwertsunterschieden zweier Stichproben als den <span class="math inline">\(t\)</span>-Test - nämlich den Welch-Test. Dies ist eine Erweiterung des <span class="math inline">\(t\)</span>-Tests für ungleiche Varianzen. Dieser ist auch der Default in <code>R</code>. Wir rechnen ihn, indem wir nicht länger <code>var.equal = T</code> in <code>t.test</code> spezifizieren. Der Output ändert sich bis auf die Namensänderung kaum - die Freiheitsgrade des Tests werden korrigiert, um auf die ungleichen Varianzen zu reagieren (dies bedeutet, immer wenn die Freiheitsgrade nicht einfach <span class="math inline">\(n-2\)</span> sind, dann wurde der Welch-Test gerechnet; insbesondere Kommazahlen als <span class="math inline">\(df\)</span> sind möglich). Jedoch bringt diese Erweiterung ebenfalls nur für größere Stichproben etwas. Die analoge Simulationsstudie können Sie <a href="#AppendixA">Appendix A</a> entnehmen.</p>
 <p>Diese Sitzung sollte als Einführung in <code>R</code>, Vorbereitung für die Regressionssitzung und kleine Wiederholung einiger wichtiger inferenzstatistischer Begriffe (wie etwas <span class="math inline">\(\alpha\)</span>-Fehler, Power, Hypothese etc.) fungieren. Wie wir Histogramme erstellen und Verteilungen vergleichen, erfahren wir in der nächsten Sitzung im Rahmen der Voraussetzungen der Regressionsanalyse und Ausreißerdiagnostik.</p>
 <p>Eine Übersicht über Matrixalgebra in <code>R</code> erhalten Sie in <a href="#AppendixB">Appendix B</a>.</p>
 <p>Eine schöne Einleitung in Plots in <code>R</code>, wie man diese erstellt, bearbeitet und abspeichert, können Sie in den Unterlagen aus dem Bachelor (PsyBsc2) zu <a href="/post/r-deskriptiv">R Deskriptivstatistik</a> nachlesen.</p>
@@ -287,7 +287,7 @@ lines(x = seq(-4,4,0.01), dt(x = seq(-4,4,0.01), df = ttest$parameter), lwd = 3)
 <pre class="r"><code>hist(ps, main = &quot;p-Werte (des Welch t-Tests) nach 10000 Replikationen\n unter Modellverstößen für kleine Stichproben&quot;, xlab = &quot;p&quot;, freq = F)
 abline(a = 1, b = 0, lwd = 3)</code></pre>
 <p><img src="/post/2020-10-06-einleitung-und-wiederholung_files/figure-html/unnamed-chunk-25-2.png" width="672" style="display: block; margin: auto;" />
-Insgesamt sieht die Verteilung der Teststatistik (also quasi der empirischen <span class="math inline">\(t\)</span>-Werte) einigermaßen in Ordnung, auch wenn etwas schief, aus, doch bei den <span class="math inline">\(p\)</span>-Werten fällt auf, dass die Null-Hypothese zu häufig verworfen wird, nämlich insgesamt in 10% der Fälle (durch Zufall, da die Null-Hypothese eigentlich gilt!); also doppelt so häufig wie von uns vorgegeben! Hier gibt es kaum Unterschiede zum ursprünglichen <span class="math inline">\(t\)</span>-Test mit gleichen Varianzen. Allerdings ist die Stichprobengröße hier mit 5 pro Gruppe recht klein!</p>
+Insgesamt sieht die Verteilung der Teststatistik (also quasi der empirischen <span class="math inline">\(t\)</span>-Werte) einigermaßen in Ordnung aus, wenn auch etwas schief, doch bei den <span class="math inline">\(p\)</span>-Werten fällt auf, dass die Null-Hypothese zu häufig verworfen wird, nämlich insgesamt in 10% der Fälle (durch Zufall, da die Null-Hypothese eigentlich gilt!); also doppelt so häufig wie von uns vorgegeben! Hier gibt es kaum Unterschiede zum ursprünglichen <span class="math inline">\(t\)</span>-Test mit gleichen Varianzen. Allerdings ist die Stichprobengröße hier mit 5 pro Gruppe recht klein!</p>
 </div>
 <div id="verteilung-unter-h_0-mit-modellverstößen-mit-größerer-stichprobe-welch-test" class="section level4">
 <h4>Verteilung unter <span class="math inline">\(H_0\)</span> mit Modellverstößen mit größerer Stichprobe: Welch-Test</h4>
@@ -304,10 +304,10 @@ for(i in 1:10000)
         ps &lt;- c(ps, ttest$p.value)   # nehme den Vektor ps und verlängere ihn um den neuen p-Wert
 }
 
-hist(ts, main = &quot;t-Werte (des Welch t-Tests) nach 10000 Replikationen\n unter Modellverstöße für kleine Stichproben&quot;, xlab = &quot;t&quot;, freq = F)
+hist(ts, main = &quot;t-Werte (des Welch t-Tests) nach 10000 Replikationen\n unter Modellverstöße für größere Stichproben&quot;, xlab = &quot;t&quot;, freq = F)
 lines(x = seq(-4,4,0.01), dt(x = seq(-4,4,0.01), df = ttest$parameter), lwd = 3)</code></pre>
 <p><img src="/post/2020-10-06-einleitung-und-wiederholung_files/figure-html/unnamed-chunk-26-1.png" width="672" style="display: block; margin: auto;" /></p>
-<pre class="r"><code>hist(ps, main = &quot;p-Werte (des Welch t-Tests) nach 10000 Replikationen\n unter Modellverstößen für kleine Stichproben&quot;, xlab = &quot;p&quot;, freq = F)
+<pre class="r"><code>hist(ps, main = &quot;p-Werte (des Welch t-Tests) nach 10000 Replikationen\n unter Modellverstößen für größere Stichproben&quot;, xlab = &quot;p&quot;, freq = F)
 abline(a = 1, b = 0, lwd = 3)</code></pre>
 <p><img src="/post/2020-10-06-einleitung-und-wiederholung_files/figure-html/unnamed-chunk-26-2.png" width="672" style="display: block; margin: auto;" /></p>
 <p>Für jeweils 100 Erhebungen pro Gruppe ist der Verstoß gegen die Normalverteilungsannahme bei ungleichen Varianzen für den Welch-Test fast zu vernachlässigen.</p>
@@ -318,7 +318,7 @@ abline(a = 1, b = 0, lwd = 3)</code></pre>
 <div id="matrixalgebra" class="section level4">
 <h4>Matrixalgebra</h4>
 <p>Matrixalgebra wird bspw. auch in Eid, et al. (2017) im <em>Anhang B: Matrixalgebra</em> ab Seite 1051 behandelt.</p>
-<p><code>R</code> ist eine vektorbasierte Programmiersprache, was bedeutet, dass möglichst viel mit Vektor- oder Matrixoperationen durchgeführt werden soll. Um von dem Gebrauch zu machen, müssen wir uns mit diesen Operationen vertraut machen:</p>
+<p><code>R</code> ist eine vektorbasierte Programmiersprache, was bedeutet, dass möglichst viel mit Vektor- oder Matrixoperationen durchgeführt werden soll. Um davon Gebrauch zu machen, müssen wir uns mit diesen Operationen vertraut machen:</p>
 <div id="vektoren" class="section level5">
 <h5>Vektoren</h5>
 <p>Dazu seien <code>X</code> und <code>Y</code> zwei Vektoren, die wir mit dem Zuordnungspfeil <code>&lt;-</code> erstellen und mit der Vektorfunktion <code>c()</code> erstellen:</p>
@@ -327,7 +327,7 @@ Y &lt;- c(10, 8, 6)</code></pre>
 <p>Wir können auf Elemente eines Vektor mit eckigen Klammern zugreifen. Bspw. erhalten wir das 2. Element von Y (also quasi <span class="math inline">\(y_2\)</span>) mit</p>
 <pre class="r"><code>Y[2]</code></pre>
 <pre><code>## [1] 8</code></pre>
-<p>Elementenweise Additionen funktioniert super simpel, indem wir einfach mit <code>+</code> verknüpfen. Auch Subtraktion oder skalare Multiplikation funktioniert so:</p>
+<p>Elementenweise Additionen funktionieren super simpel, indem wir sie einfach mit <code>+</code> verknüpfen. Auch Subtraktionen oder skalare Multiplikationen funktionieren so:</p>
 <pre class="r"><code>X + Y  # Addition</code></pre>
 <pre><code>## [1] 11 10  9</code></pre>
 <pre class="r"><code>X - Y  # Subtraktion</code></pre>
@@ -341,7 +341,7 @@ Y &lt;- c(10, 8, 6)</code></pre>
 Z + Y</code></pre>
 <pre><code>## [1] 11 10  9 14 13 12</code></pre>
 <p><code>Z</code> ist hier doppelt so lang wie <code>Y</code>, sodass in der Addition <code>Y</code> einfach zweimal hintereinander geschrieben wird, damit die Addition möglich ist, denn eine Addition bei Vektoren (und auch Matrizen) funktioniert nur, wenn die beiden Elemente das gleiche Format haben!</p>
-<p>Wenn wir zwei Vektoren miteinander multiplizieren, so entsteht kein Matrixprodukt, sondern elementenweise Multiplikation:</p>
+<p>Wenn wir zwei Vektoren miteinander multiplizieren, so entsteht kein Matrixprodukt, sondern eine elementenweise Multiplikation:</p>
 <pre class="r"><code>X*Y # elementenweise Multiplikation</code></pre>
 <pre><code>## [1] 10 16 18</code></pre>
 </div>
@@ -354,7 +354,7 @@ Z + Y</code></pre>
 ## [1,]    1
 ## [2,]    2
 ## [3,]    3</code></pre>
-<p>Wir können die beiden Vektoren auch zu einer Matrix kombinieren, indem wir sie bspw. als zwei Zeilenvektoren zusammenfügen mit dem Befehl <code>cbind</code> (was für column binding steht) - genauso geht dies auch mit <code>rbind</code> (was für row binding steht):</p>
+<p>Wir können die beiden Vektoren auch zu einer Matrix kombinieren, indem wir sie bspw. als zwei Zeilenvektoren mit dem Befehl <code>cbind</code> (was für column binding steht) zusammenfügen - genauso geht dies auch mit <code>rbind</code> (was für row binding steht):</p>
 <pre class="r"><code>A &lt;- cbind(X, Y)
 A</code></pre>
 <pre><code>##      X  Y
@@ -398,7 +398,7 @@ B</code></pre>
 ## [1,] 2 20
 ## [2,] 4 16
 ## [3,] 6 12</code></pre>
-<p>Da die beiden Matrizen gerade das Format 3x2 und 2x3 haben, lassen sie sich aber als Matrixprodukt verrechnen. Der Operator hierfür heißt <code>%*%</code> (verwenden wir stattdessen <code>*</code>, so wird elementenweise Multiplikation durchgeführt, was etwas komplett anderes ist!):</p>
+<p>Da die beiden Matrizen gerade das Format 3x2 und 2x3 haben, lassen sie sich aber als Matrixprodukt verrechnen. Der Operator hierfür heißt <code>%*%</code> (verwenden wir stattdessen <code>*</code>, so wird eine elementenweise Multiplikation durchgeführt, was etwas komplett anderes ist!):</p>
 <pre class="r"><code>A %*% B # Matrixprodukt A*B</code></pre>
 <pre><code>##      [,1] [,2] [,3]
 ## [1,]  101   82   63
@@ -412,18 +412,18 @@ B</code></pre>
 </div>
 <div id="spezielle-matrizen" class="section level4">
 <h4>Spezielle Matrizen</h4>
-<p>Eine quadratische Matrix hat genauso viele Zeilen wie Spalten. Eine wichtig quadratische Matrix ist die Einheitsmatrix <span class="math inline">\(I\)</span>, welche nur 1en auf der Diagonale und 0en sonst hat. Diese ist gerade das Elemente, mit welchem wir getrost multiplizieren können (falls die Dimensionen stimmen), weil dann nichts passiert (wie Multiplikation mit 1 bei Zahlen). Wir erhalten sie mit <code>diag</code>, was eigentlich eine (quadratische) Diagonalmatrix erzeugt mit beliebigen Elementen auf der Diagonale:</p>
+<p>Eine quadratische Matrix hat genauso viele Zeilen wie Spalten. Eine wichtige quadratische Matrix ist die Einheitsmatrix <span class="math inline">\(I\)</span>, welche nur 1en auf der Diagonalen und sonst 0en hat. Diese ist gerade das Elemente, mit welchem wir getrost multiplizieren können (falls die Dimensionen stimmen), weil dann nichts passiert (wie Multiplikation mit 1 bei Zahlen). Wir erhalten sie mit <code>diag</code>, was eigentlich eine (quadratische) Diagonalmatrix erzeugt mit beliebigen Elementen auf der Diagonalen:</p>
 <pre class="r"><code>diag(3) # Einheitsmatrix 3x3</code></pre>
 <pre><code>##      [,1] [,2] [,3]
 ## [1,]    1    0    0
 ## [2,]    0    1    0
 ## [3,]    0    0    1</code></pre>
-<pre class="r"><code>diag(1:3) # Diagonalmatrix mit Elementen 1,2,3 auf der Diagonale</code></pre>
+<pre class="r"><code>diag(1:3) # Diagonalmatrix mit Elementen 1,2,3 auf der Diagonalen</code></pre>
 <pre><code>##      [,1] [,2] [,3]
 ## [1,]    1    0    0
 ## [2,]    0    2    0
 ## [3,]    0    0    3</code></pre>
-<p>Wir können eine Matrix auf mit Hand füllen mit dem <code>matrix</code> Befehl. Diesem übergeben wir einen Vektor und die Dimensionen der Matrix (<code>data</code> werden die Daten, die wir in die Matrix schreiben wollen übergeben, <code>nrow</code> und <code>ncol</code> bestimmen die Anzahl der Zeilen und Spalten und mit <code>byrow = T</code> zeigen wir an, dass wir die Matrix zeilenweise gefüllt bekommen möchten):</p>
+<p>Wir können eine Matrix mit dem <code>matrix</code> Befehl auch mit Hand füllen. Diesem übergeben wir einen Vektor und die Dimensionen der Matrix (<code>data</code> werden die Daten, die wir in die Matrix schreiben wollen übergeben, <code>nrow</code> und <code>ncol</code> bestimmen die Anzahl der Zeilen und Spalten und mit <code>byrow = T</code> zeigen wir an, dass wir die Matrix zeilenweise gefüllt bekommen möchten):</p>
 <pre class="r"><code>C &lt;- matrix(data = c(1:9), nrow = 3, ncol = 3, byrow = T)
 C</code></pre>
 <pre><code>##      [,1] [,2] [,3]
@@ -449,7 +449,7 @@ C</code></pre>
 <pre><code>## [1] 3 6 9</code></pre>
 <pre class="r"><code>C[, 3]               # 3. Spalte</code></pre>
 <pre><code>## [1] 3 6 9</code></pre>
-<p>Hätten wir <code>C^-1</code> gererchnet, so hätten wir elementenweise Invertierung durchgeführt:</p>
+<p>Hätten wir <code>C^-1</code> gererchnet, so hätten wir eine elementenweise Invertierung durchgeführt:</p>
 <pre class="r"><code>C^-1</code></pre>
 <pre><code>##           [,1]  [,2]      [,3]
 ## [1,] 1.0000000 0.500 0.3333333
